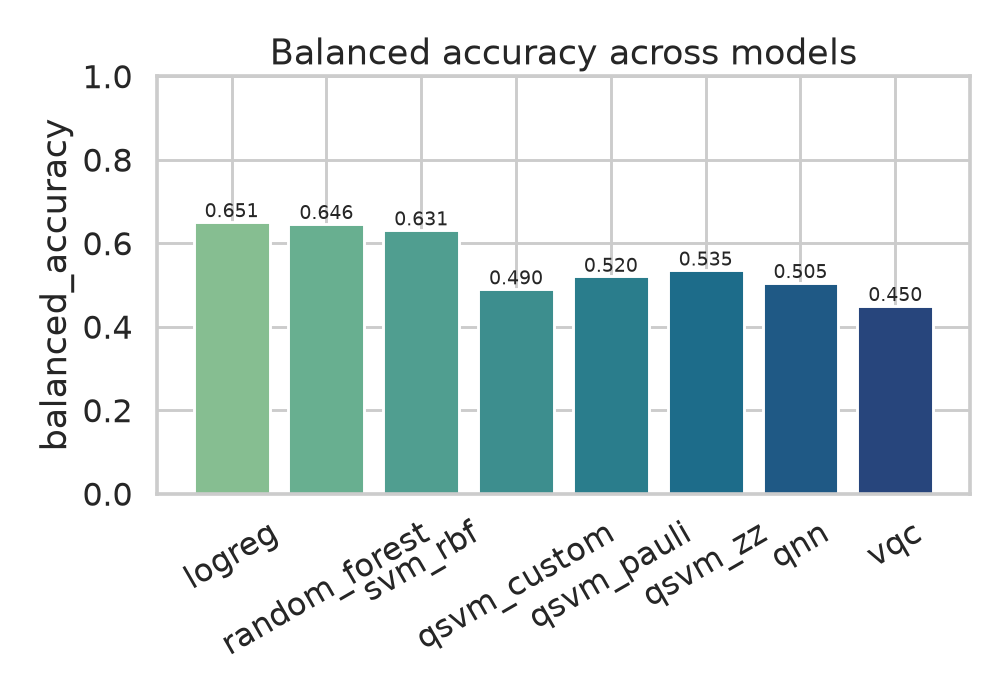
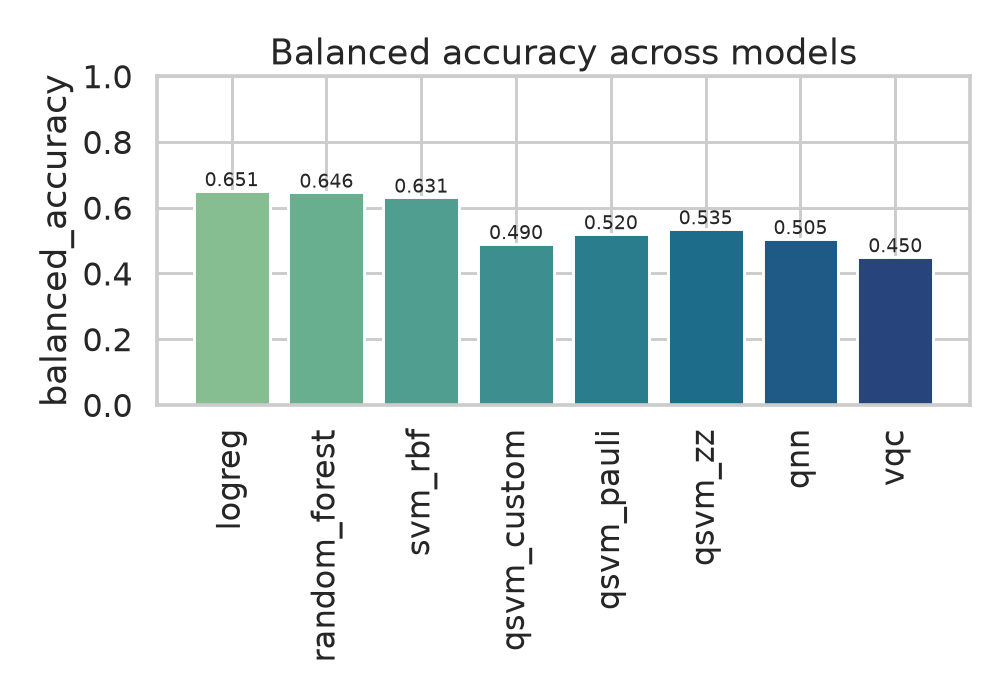
Stop the other metric bar charts' model names from overlapping
The round-2 fix rotated only plot_metric_bars_with_ci. plot_metric_bars,
which draws runtime_comparison.png (a README key figure and on the docs
findings page) and final_comparison, f1_comparison and
balanced_accuracy_comparison, still used 30 degrees, so 'random_forest'
printed over 'svm_rbf'. It now uses the same 90 degrees, and the
no-overlap test is parametrized over both helpers (it failed for
plot_metric_bars before the change).

The four PNGs were regenerated with run_reports() only, from the
unchanged reports/results.json; roc_auc_ci_comparison.png came back
byte-identical and is not in this commit.

Claude-Session: https://claude.ai/code/session_01PWSXcyEx8MpeCxMpwDRFHN

Changed region(s): [[0.0308, 0.12, 0.9841, 0.96], [0.8611, 0.75, 0.9226, 0.81], [0.9226, 0.45, 0.9534, 0.51]]

diff --git a/tests/test_evaluation.py b/tests/test_evaluation.py
@@ -3,6 +3,7 @@
 from __future__ import annotations
 
 import numpy as np
+import pytest
 from matplotlib.figure import Figure
 
 from qml_healthcare.evaluation import (
@@ -123,8 +124,9 @@ def test_plot_metric_bars_with_ci_writes_file(tmp_path):
     assert path.exists() and path.stat().st_size > 1000
 
 
-def test_plot_metric_bars_with_ci_tick_labels_do_not_overlap(tmp_path, monkeypatch):
-    """The README's key figure used to print 'random_forest' on top of 'svm_rbf'."""
+@pytest.mark.parametrize("plot", [plot_metric_bars_with_ci, plot_metric_bars])
+def test_metric_bar_tick_labels_do_not_overlap(tmp_path, monkeypatch, plot):
+    """The README's key figures used to print 'random_forest' on top of 'svm_rbf'."""
     boxes = []
     original_savefig = Figure.savefig
 
@@ -146,7 +148,7 @@ def test_plot_metric_bars_with_ci_tick_labels_do_not_overlap(tmp_path, monkeypat
         "vqc",
     ]
     results = {n: {"roc_auc": 0.6, "roc_auc_ci_low": 0.5, "roc_auc_ci_high": 0.7} for n in names}
-    plot_metric_bars_with_ci(results, "roc_auc", tmp_path / "ci_bars.png", ylim=(0, 1))
+    plot(results, "roc_auc", tmp_path / "bars.png", ylim=(0, 1))
 
     assert len(boxes) == len(names)
     for left, right in zip(boxes, boxes[1:], strict=False):

diff --git a/src/qml_healthcare/evaluation.py b/src/qml_healthcare/evaluation.py
@@ -249,7 +249,7 @@ def plot_metric_bars(
     if ylim is not None:
         ax.set_ylim(*ylim)
     ax.set_title(title or f"{metric} comparison")
-    ax.tick_params(axis="x", rotation=30)
+    ax.tick_params(axis="x", rotation=90)  # 30 degrees let long model names overlap
     fig.tight_layout()
     fig.savefig(path, dpi=140)
     plt.close(fig)
